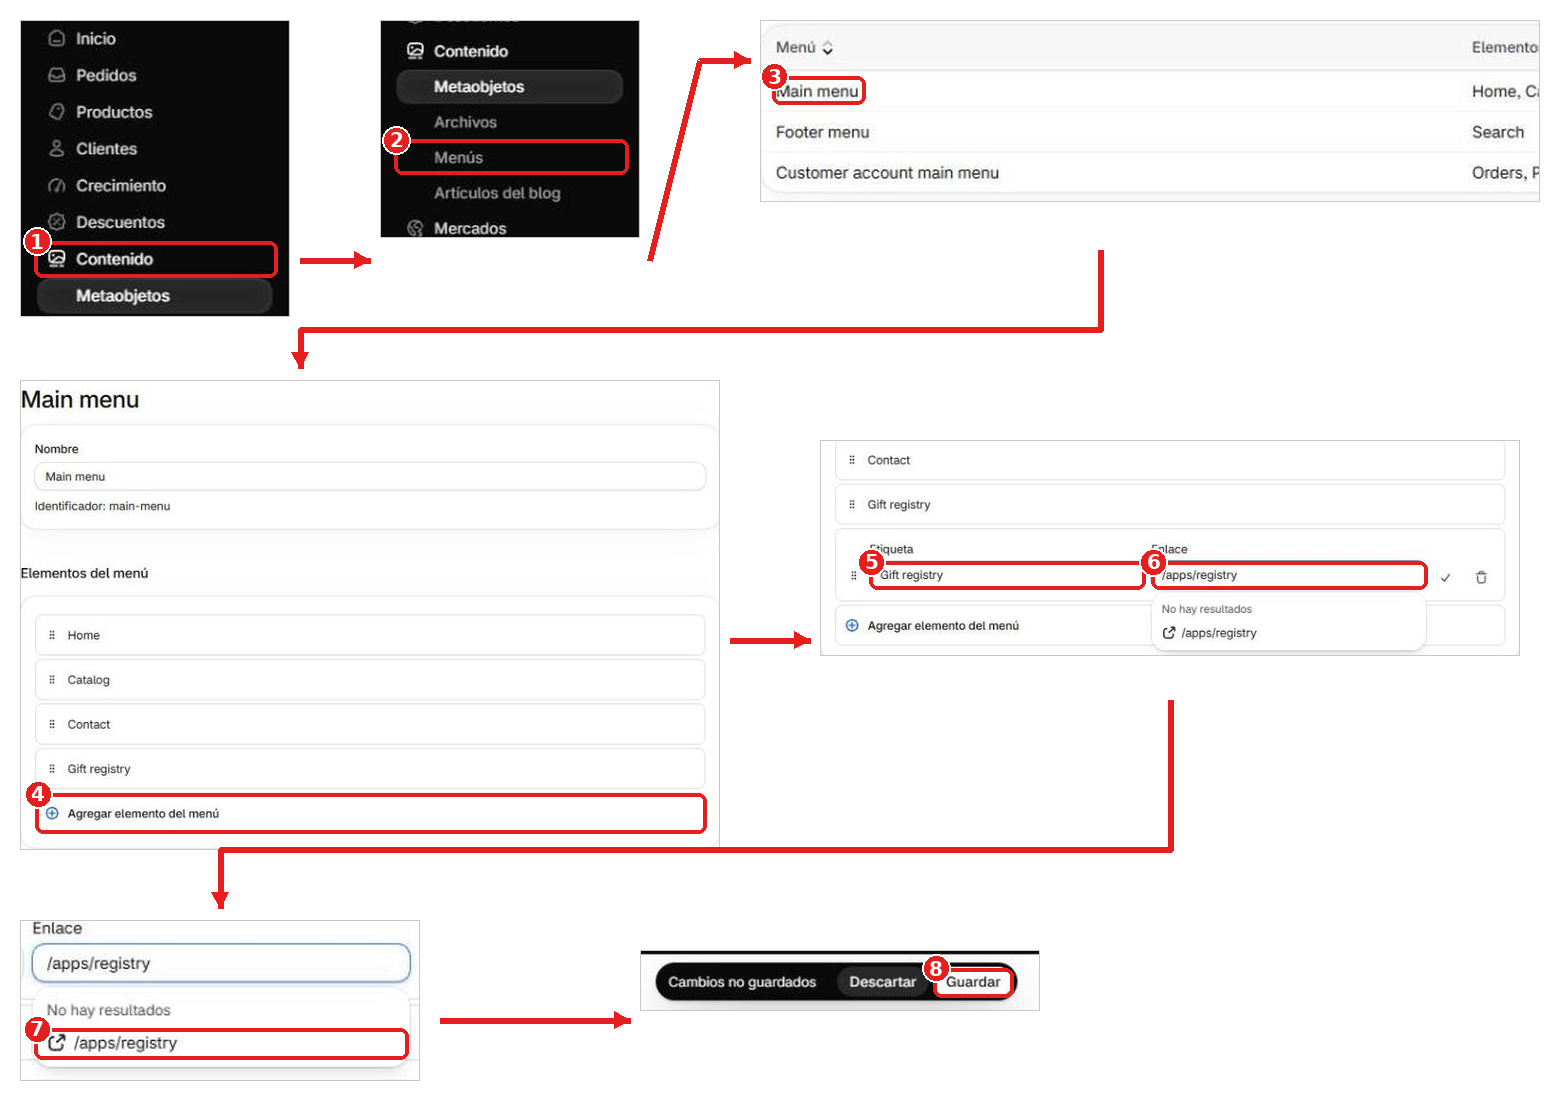
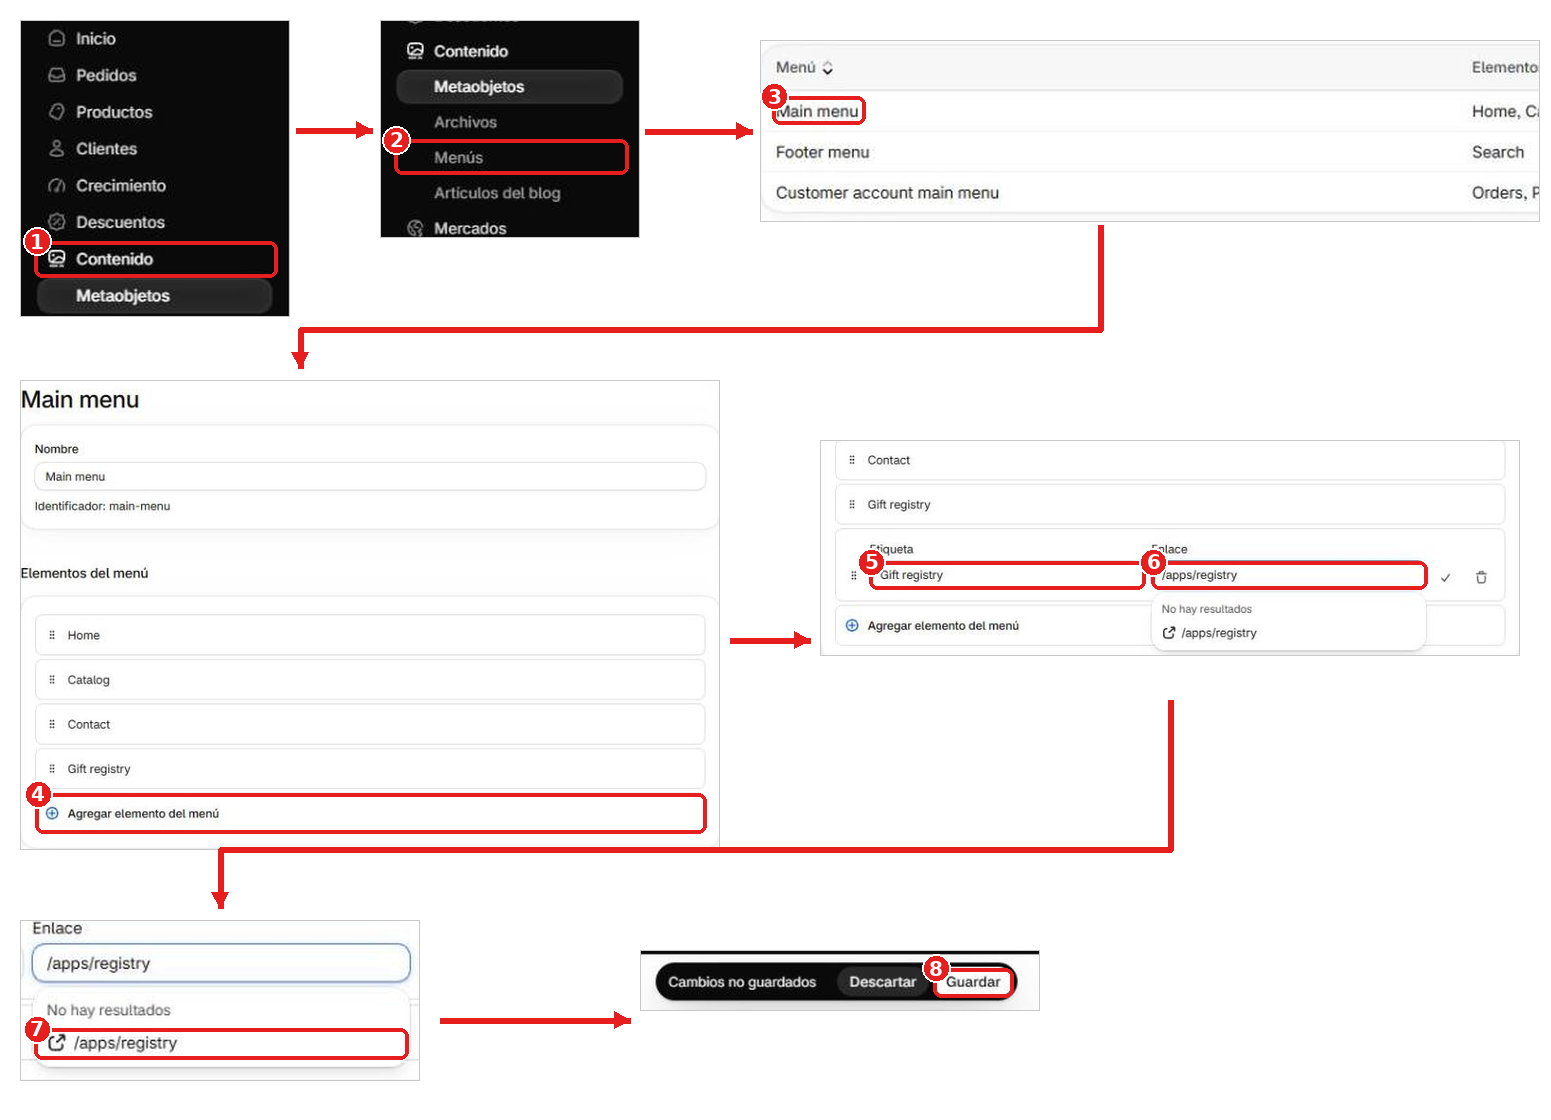
Docs: point the arrow into the first panel of the Spanish path images, align the menu path arrows
Claude-Session: https://claude.ai/code/session_01KzQVos86c9rn3VZQfksSux

diff --git a/app/marketing/guides.ts b/app/marketing/guides.ts
@@ -193,8 +193,14 @@ const ENTRY_PANEL: Record<string, [number, number]> = {
   "/guides/p19-cart-block-path.png": [1581, 200],
   "/guides/p20-menu-item-path.png": [1551, 134],
 };
-const arrowInto = (src: string) => {
-  const e = ENTRY_PANEL[src];
+// Same, for the Spanish files drawn from Chrome plates (their first panel sits elsewhere).
+const ENTRY_PANEL_LOCALE: Record<string, [number, number]> = {
+  "/guides/es/p18-theme-block-path.png": [1500, 187],
+  "/guides/es/p19-cart-block-path.png": [1581, 220],
+  "/guides/es/p20-menu-item-path.png": [1551, 155],
+};
+const arrowInto = (src: string, locale: Locale) => {
+  const e = ENTRY_PANEL_LOCALE[localizedShot(src, locale)] ?? ENTRY_PANEL[src];
   if (!e) return SHOT_ARROW;
   const f = (e[1] / e[0]).toFixed(4);
   return SHOT_ARROW.replace('class="shot-arrow"', `class="shot-arrow" style="margin-left:calc(min(100%, ${e[0]}px) * ${f} - 12px)"`);
@@ -210,7 +216,7 @@ const guideShots = (list: Shot[], locale: Locale, merchant: boolean) =>
   list
     .map((i, n) => {
       const cap = merchant || i.src.includes("m9-") ? PREVIEW_SHOTS[i.src] : undefined;
-      return (n ? arrowInto(i.src) : "") + (cap ? `<p class="shot-cap">${esc(DOCS_UI[locale][cap])}</p>` : "") + `<img class="shot" src="${esc(localizedShot(i.src, locale))}" alt="${esc(i.alt)}" loading="lazy">`;
+      return (n ? arrowInto(i.src, locale) : "") + (cap ? `<p class="shot-cap">${esc(DOCS_UI[locale][cap])}</p>` : "") + `<img class="shot" src="${esc(localizedShot(i.src, locale))}" alt="${esc(i.alt)}" loading="lazy">`;
     })
     .join("");
 
